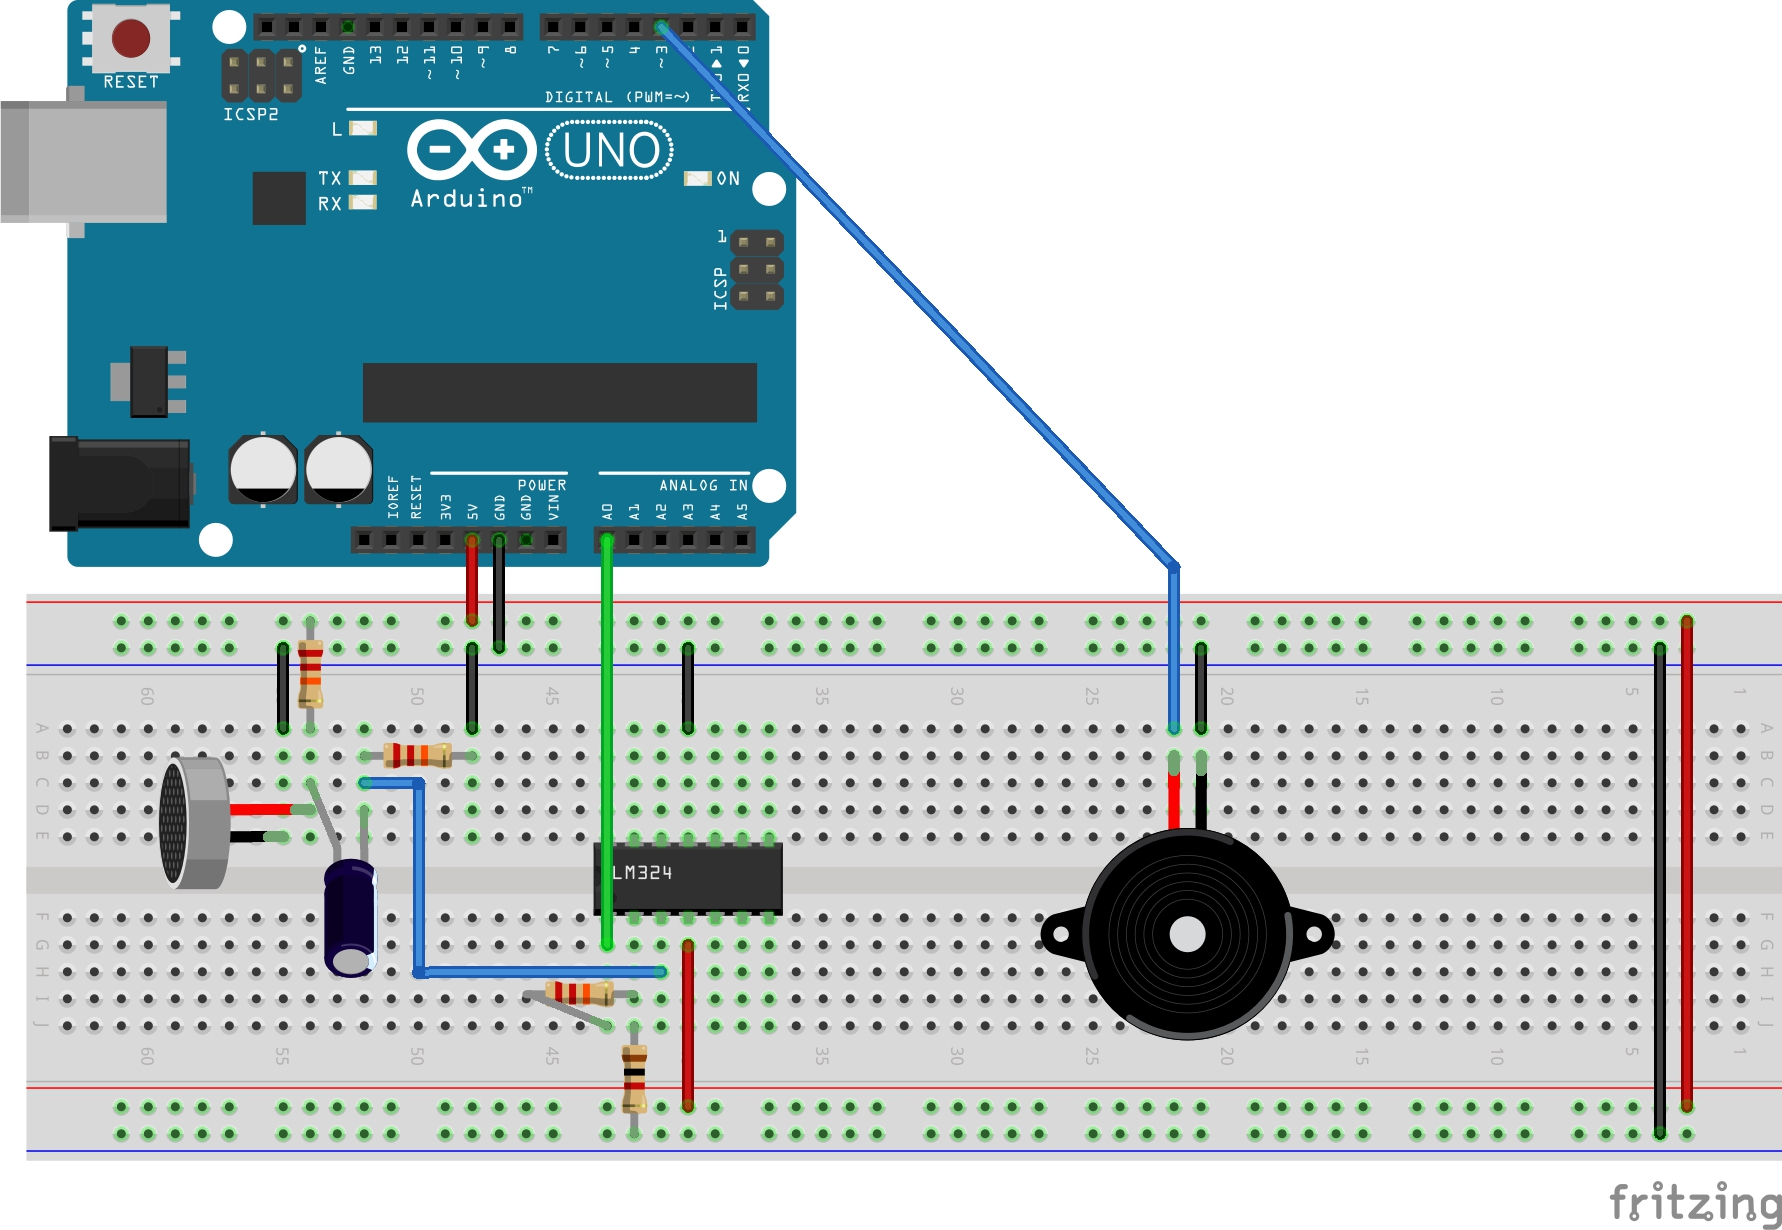
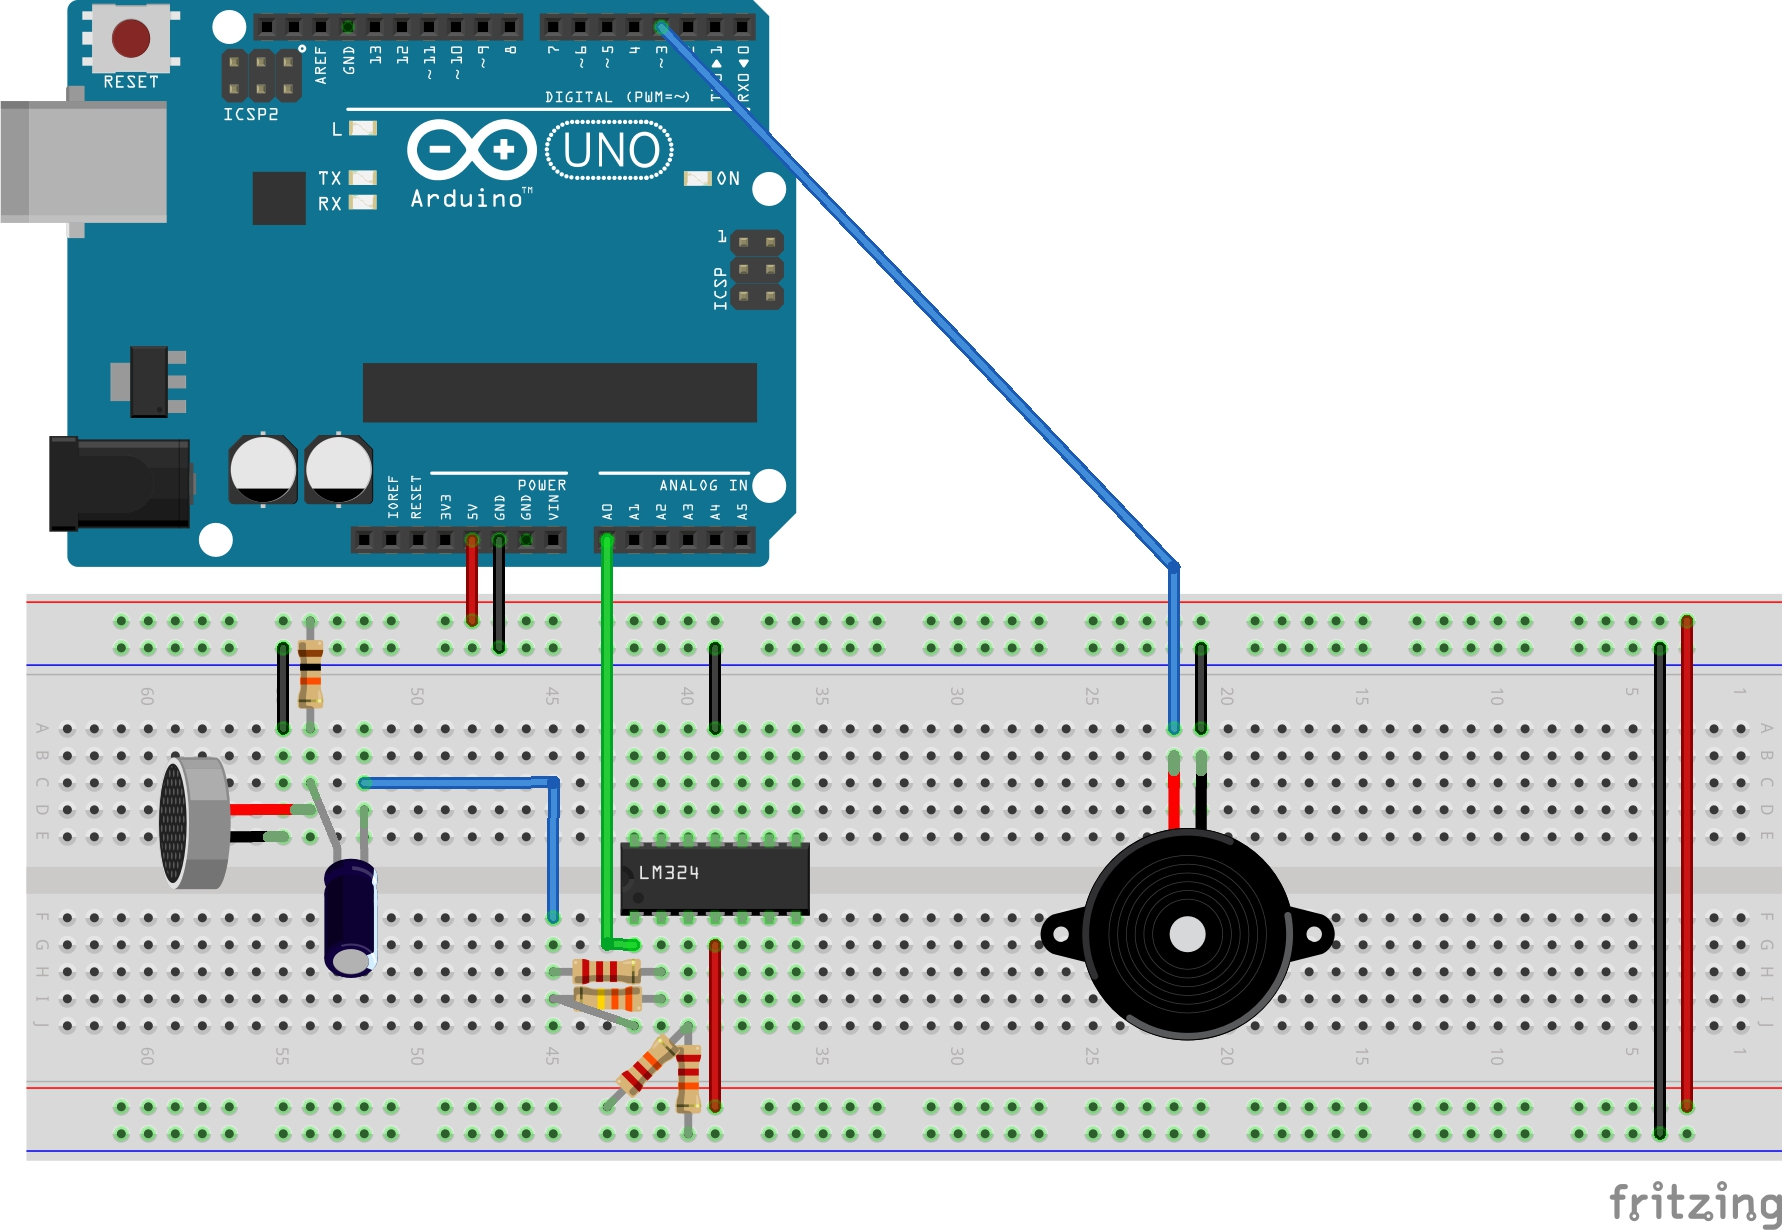
[ElectretTrigger] switch to summing amplifier configuration

Changed region(s): [[0.216, 0.5252, 0.463, 0.9268], [0.3704, 0.5252, 0.4321, 0.6179], [0.1543, 0.5252, 0.1852, 0.5561]]

diff --git a/playground/ElectretTrigger/melody.h b/playground/ElectretTrigger/melody.h
@@ -1,5 +1,5 @@
 
-const int melody_pin = 3;
+#include "pitches.h"
 
 #define BPM 145       // beats per minute for the playboack
 

diff --git a/playground/ElectretTrigger/README.md b/playground/ElectretTrigger/README.md
@@ -11,14 +11,25 @@ Here's a quick video of the circuit in action:
 
 The electret microphone is biased to about 1V, and the AC component of the signal tapped via C1.
 
-The microphone signal is then fed to the LM324 set for a non-inverting DC gain of 23.
+The microphone signal is then fed to the LM324 setup as a subtracting amplifier:
 
-    G = 1 + Ra1/Ra2 = 1 + 22/1 = 23
+* positive input is set to Vcc/2 = 2.5V
+* microphone signal fed to negative input
 
-Although the LM324 is not particularly specialised for audio applications, it works well enough here.
+    Vo = G1 * Vmic + G2 * Vcc
+    G1 = -R2/R1 = -330kΩ/2.2kΩ = -150
+    G2 = (R1 + R2)/R1 * R4/(R3 + R4) = (2.2kΩ + 330kΩ)/2.2kΩ * 22kΩ/(22kΩ + 22kΩ) = 75.5
 
-The amplified signal is read by the Arduino, and when the signal exceeds a threshold, the Arduino triggers a tune played on the pieze speaker.
+When no microphone signal, we are
+[reading Vcc/2](http://www.wolframalpha.com/input/?i=5*%282.2k%CE%A9+%2B+330k%CE%A9%29%2F2.2k%CE%A9+*+22k%CE%A9%2F%2822k%CE%A9+%2B+22k%CE%A9%29+-+2.5+*330k%CE%A9%2F2.2k%CE%A9)
+at the output.
 
+But it is really sensitive to changes in the microphone signal. Basically every
+[1mV results in a 150mV change in the output](http://www.wolframalpha.com/input/?i=0.001+*330k%CE%A9%2F2.2k%CE%A9).
+
+The amplified signal is read by the Arduino, and when the signal exceeds a threshold, the Arduino triggers a tune played on the piezo speaker.
+
+Other amplifier configurations are possible. For example the [ElectretADC](../ElectretADC) demo uses a non-inverting amplifier configuration.
 
 ### Construction
 
